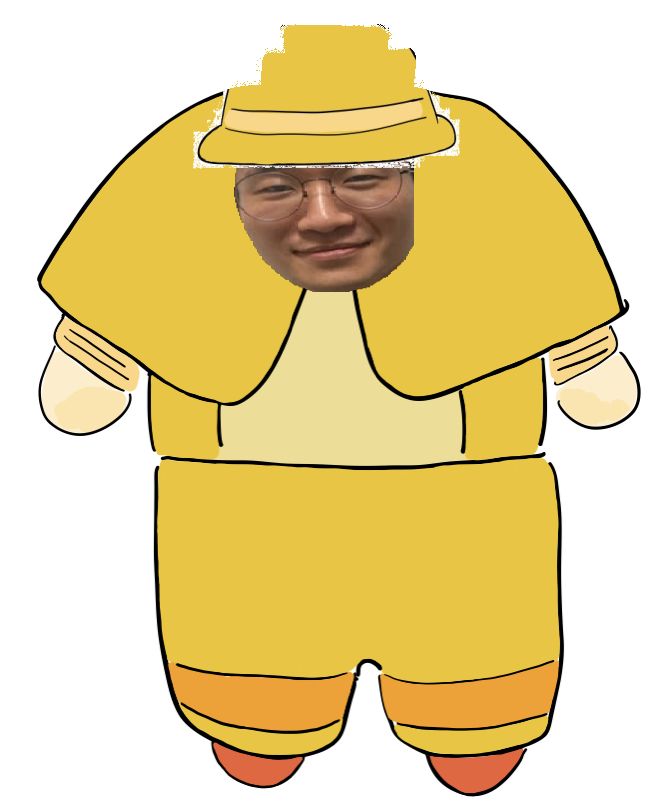
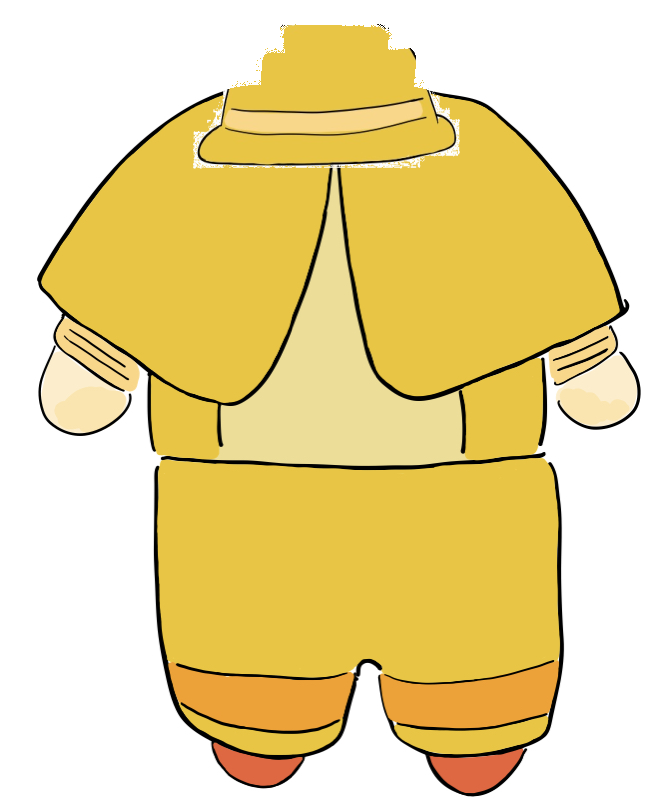
need resize!

Changed region(s): [[0.3293, 0.1852, 0.6287, 0.3704]]

diff --git a/AI/make_image.py b/AI/make_image.py
@@ -1,12 +1,13 @@
+import os
 import cv2
 import numpy as np
 import face_recognition as fr
-from Cartoonization.test import Cartoonize
-
+from PIL import Image
+from Cartoonization import test
 
 # 1. 이미지 받기
 original_image_path = "./images/input_images/KTI.jpg"
-original_image_name = original_image_path[22:]
+original_image_name = original_image_path[22:-4]
 origin_image = cv2.imread(original_image_path, cv2.IMREAD_UNCHANGED)
 BGRA_image = cv2.cvtColor(origin_image, cv2.COLOR_BGR2BGRA)
 
@@ -65,32 +66,55 @@ Trim_x, Trim_y = (int(chin_start[0]), int(
     chin_end[0])), (int(min_y), int(fr_chin_bottom))
 Trimmed_image = Nukkied_image[Trim_y[0]: Trim_y[1], Trim_x[0]: Trim_x[1]]
 
-Resized_image = cv2.resize(Trimmed_image, (180, 200),
+Nukkied_image = cv2.resize(Trimmed_image, (180, 200),
                            fx=1, fy=1, interpolation=cv2.INTER_AREA)
 
-# cv2.imwrite('Nukkied_image.png', Nukkied_image)
-# cv2.imwrite('Trimmed_image.png', Trimmed_image)
-# cv2.imwrite('Resized_image.png', Resized_image)
+Nukkied_image_path = './images/nukkied_images'
+cv2.imwrite(os.path.join(Nukkied_image_path,
+                         'Nukkied_' + original_image_name + '.png'), Nukkied_image)
 
 
 # 2-3. Cartoonization 이미지 변환
-input_image = Resized_image.convert
-baby_face = Cartoonize(Resized_image)
+cartooned_image_name = test.cartoonize(Nukkied_image_path)
+cartooned_image_path = './images/cartooned_images/' + cartooned_image_name
+
+
+# 2-4-1. 검은부분 Nukki
+cartooned_image = Image.open(cartooned_image_path)
+cartooned_RGBA_image = cartooned_image.convert('RGBA')
+
+datas = cartooned_RGBA_image.getdata()
+
+newData = []
+cutOff = 30
+for item in datas:
+    if item[0] <= cutOff and item[1] <= cutOff and item[2] <= cutOff:
+        newData.append((255, 255, 255, 0))
+    else:
+        newData.append(item)
+cartooned_RGBA_image.putdata(newData)
+
+
+# 2-4-2. resize
+cartooned_RGBA_image.resize((180, 200), resample=3,
+                            box=None, reducing_gap=None)
+save_path = './images/re_nukkied_images/' + cartooned_image_name
+cartooned_RGBA_image.save(save_path, 'PNG')
 
 
 # 3. 몸에 합성
-# baby_face = cv2.imread('./Resized_image.png', cv2.IMREAD_UNCHANGED)
+baby_face = cv2.imread('./Resized_image.png', cv2.IMREAD_UNCHANGED)
 baby_body = cv2.imread(
     './images/body_and_hat/white_removed_body.png', cv2.IMREAD_UNCHANGED)
 baby_hat = cv2.imread(
     './images/body_and_hat/white_removed_hat.png', cv2.IMREAD_UNCHANGED)
 
 component = [baby_face, baby_body, baby_hat]
-for i in range(3):
-    if component[i].shape[2] != 4:
-        # -1 loads as-is so if it will be 3 or 4 channel as the original
-        BGRA_img = cv2.cvtColor(component[i], cv2.COLOR_BGR2BGRA)
-        component[i] = BGRA_img
+# for i in range(3):
+#     if component[i].shape[2] != 4:
+#         # -1 loads as-is so if it will be 3 or 4 channel as the original
+#         BGRA_img = cv2.cvtColor(component[i], cv2.COLOR_BGR2BGRA)
+#         component[i] = BGRA_img
 
 # baby_hat image resize
 component[2] = cv2.resize(baby_hat, (300, 200), fx=1,
@@ -98,9 +122,9 @@ component[2] = cv2.resize(baby_hat, (300, 200), fx=1,
 
 baby_face, baby_body, baby_hat = component[0], component[1], component[2]
 
-# print('baby_face', baby_face.shape)
-# print('baby_body', baby_body.shape)
-# print('baby_hat', baby_hat.shape)
+print('baby_face', baby_face.shape)
+print('baby_body', baby_body.shape)
+print('baby_hat', baby_hat.shape)
 
 # tilt
 face_body_tilt = (-10, 92)
@@ -129,5 +153,5 @@ result = baby_face_body
 cv2.imshow('Face_to_body', result)
 cv2.imwrite('result.png', result)
 
-# cv2.waitKey(0)
-# cv2.destroyAllWindows()
+cv2.waitKey(0)
+cv2.destroyAllWindows()

diff --git a/AI/Cartoonization/test.py b/AI/Cartoonization/test.py
@@ -9,14 +9,14 @@ import torchvision.utils as vutils
 from .network.Transformer import Transformer
 
 
-def Cartoonize(Resized_image):
+def cartoonize(Resized_image_path):
     parser = argparse.ArgumentParser()
-    parser.add_argument('--input_dir', default='./images/input_images')
+    parser.add_argument('--input_dir', default=Resized_image_path)
     parser.add_argument('--load_size', default=450)
     parser.add_argument(
         '--model_path', default='./Cartoonization/pretrained_model')
     parser.add_argument('--style', default='Shinkai')
-    parser.add_argument('--output_dir', default='./images/output_images')
+    parser.add_argument('--output_dir', default='./images/cartooned_images')
     parser.add_argument('--gpu', type=int, default=0)
 
     opt = parser.parse_args()
@@ -45,9 +45,8 @@ def Cartoonize(Resized_image):
             continue
 
         # load image
-        input_image = Image.open(Resized_image).convert("RGB")
-        # input_image = Image.open(os.path.join(
-        #     opt.input_dir, files)).convert("RGB")
+        input_image = Image.open(os.path.join(
+            opt.input_dir, files)).convert("RGB")
 
         # resize image, keep aspect ratio
         h = input_image.size[0]
@@ -78,9 +77,9 @@ def Cartoonize(Resized_image):
         # deprocess, (0, 1)
         output_image = output_image.data.cpu().float() * 0.5 + 0.5
         # save
+        file_name = files[:-4] + '_' + opt.style + '.png'
         vutils.save_image(output_image, os.path.join(
-            opt.output_dir, files[:-4] + '_' + opt.style + '.jpg'))
+            opt.output_dir, files[:-4] + '_' + opt.style + '.png'))
 
     print('Done!')
-
-    return output_image
+    return file_name
